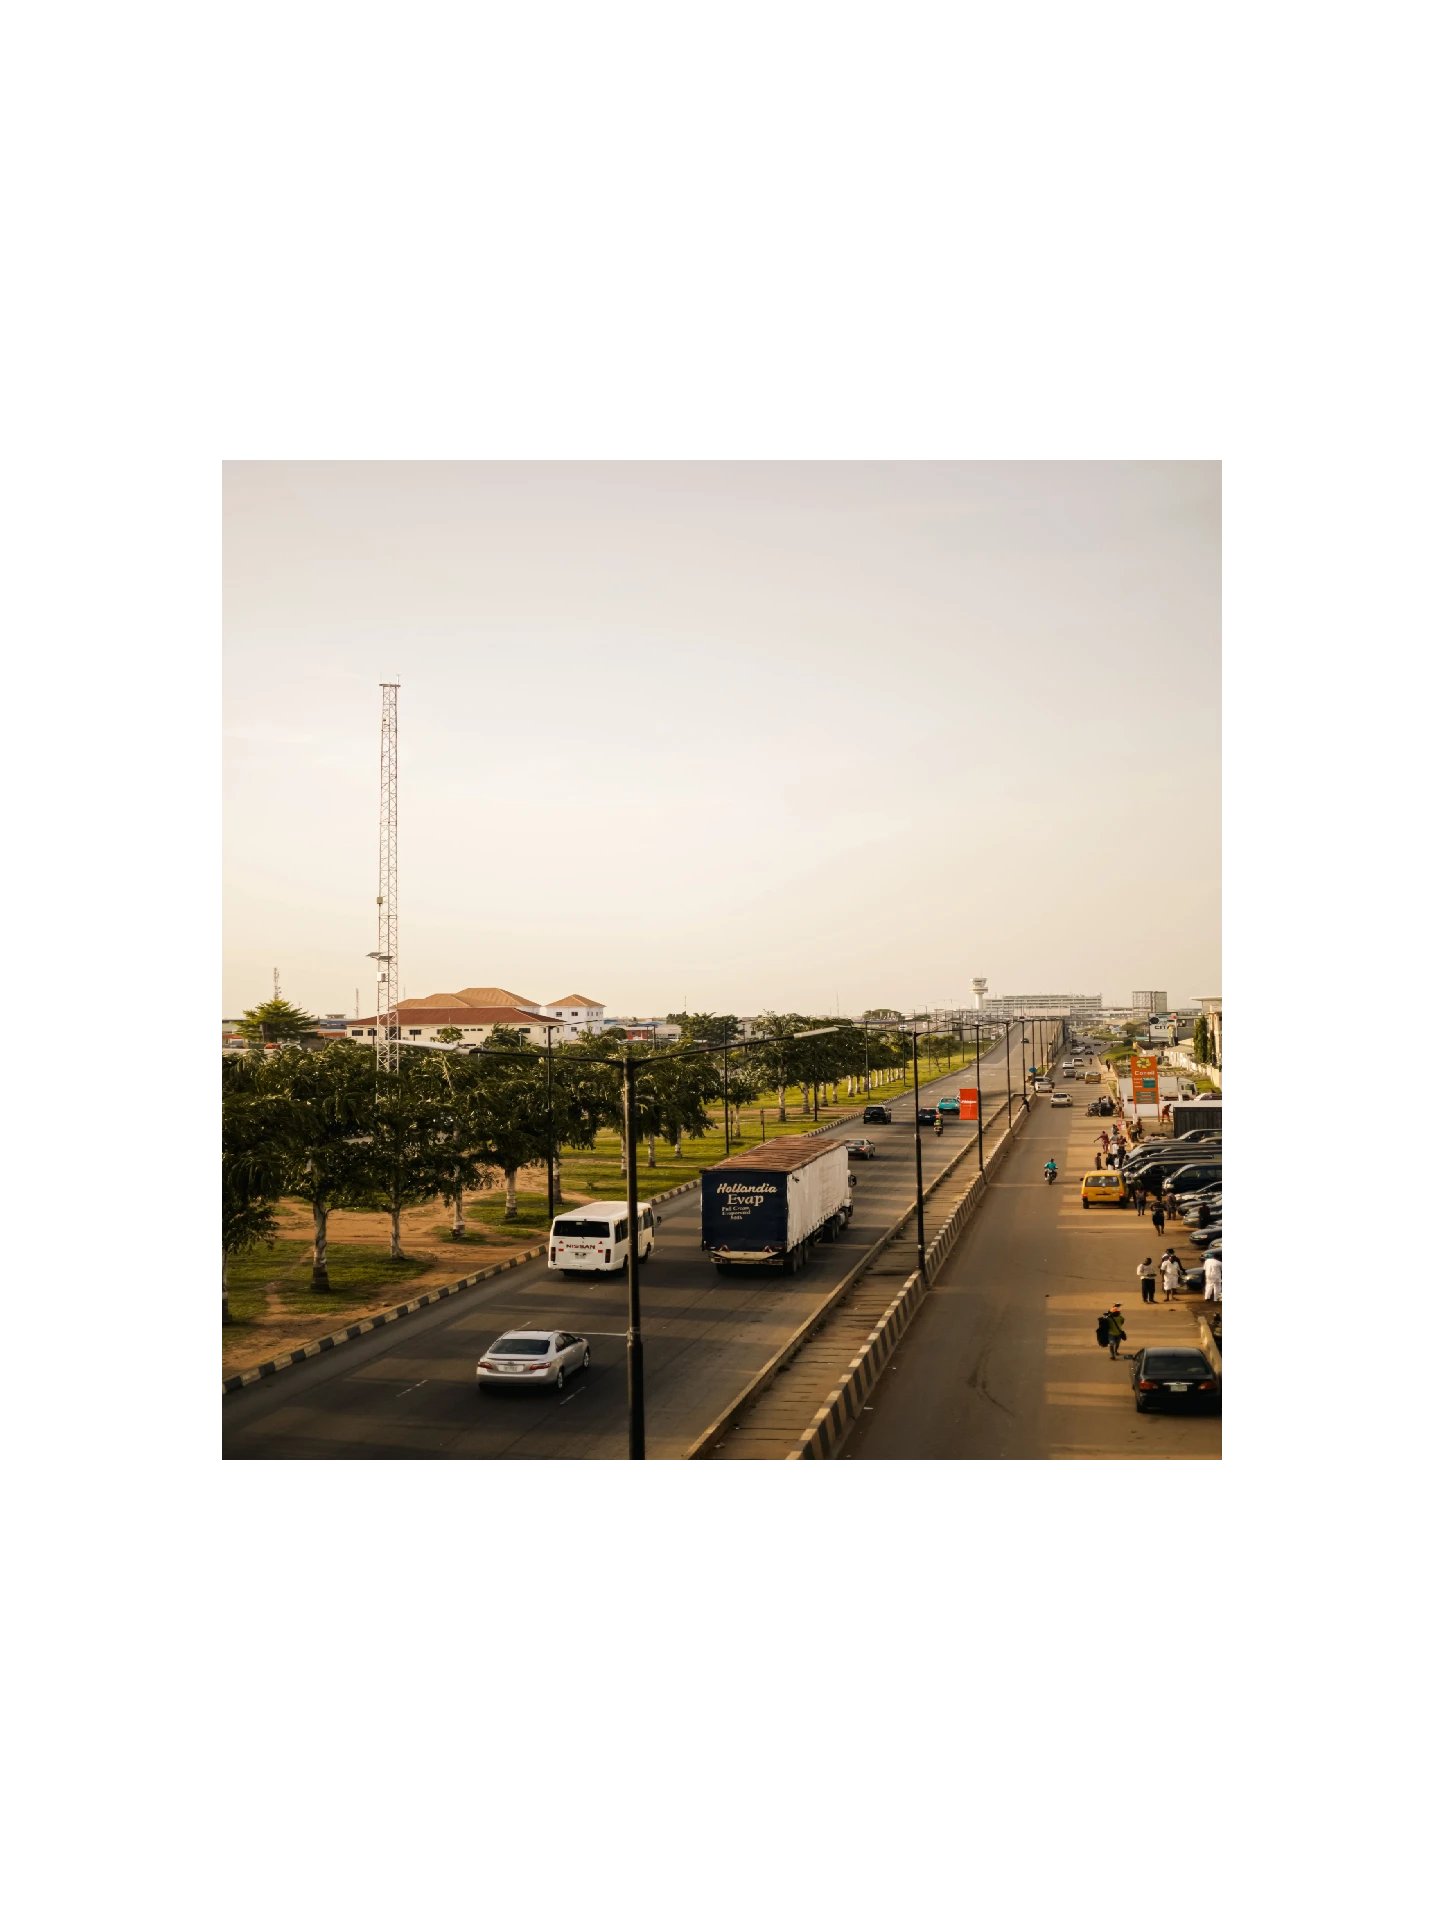
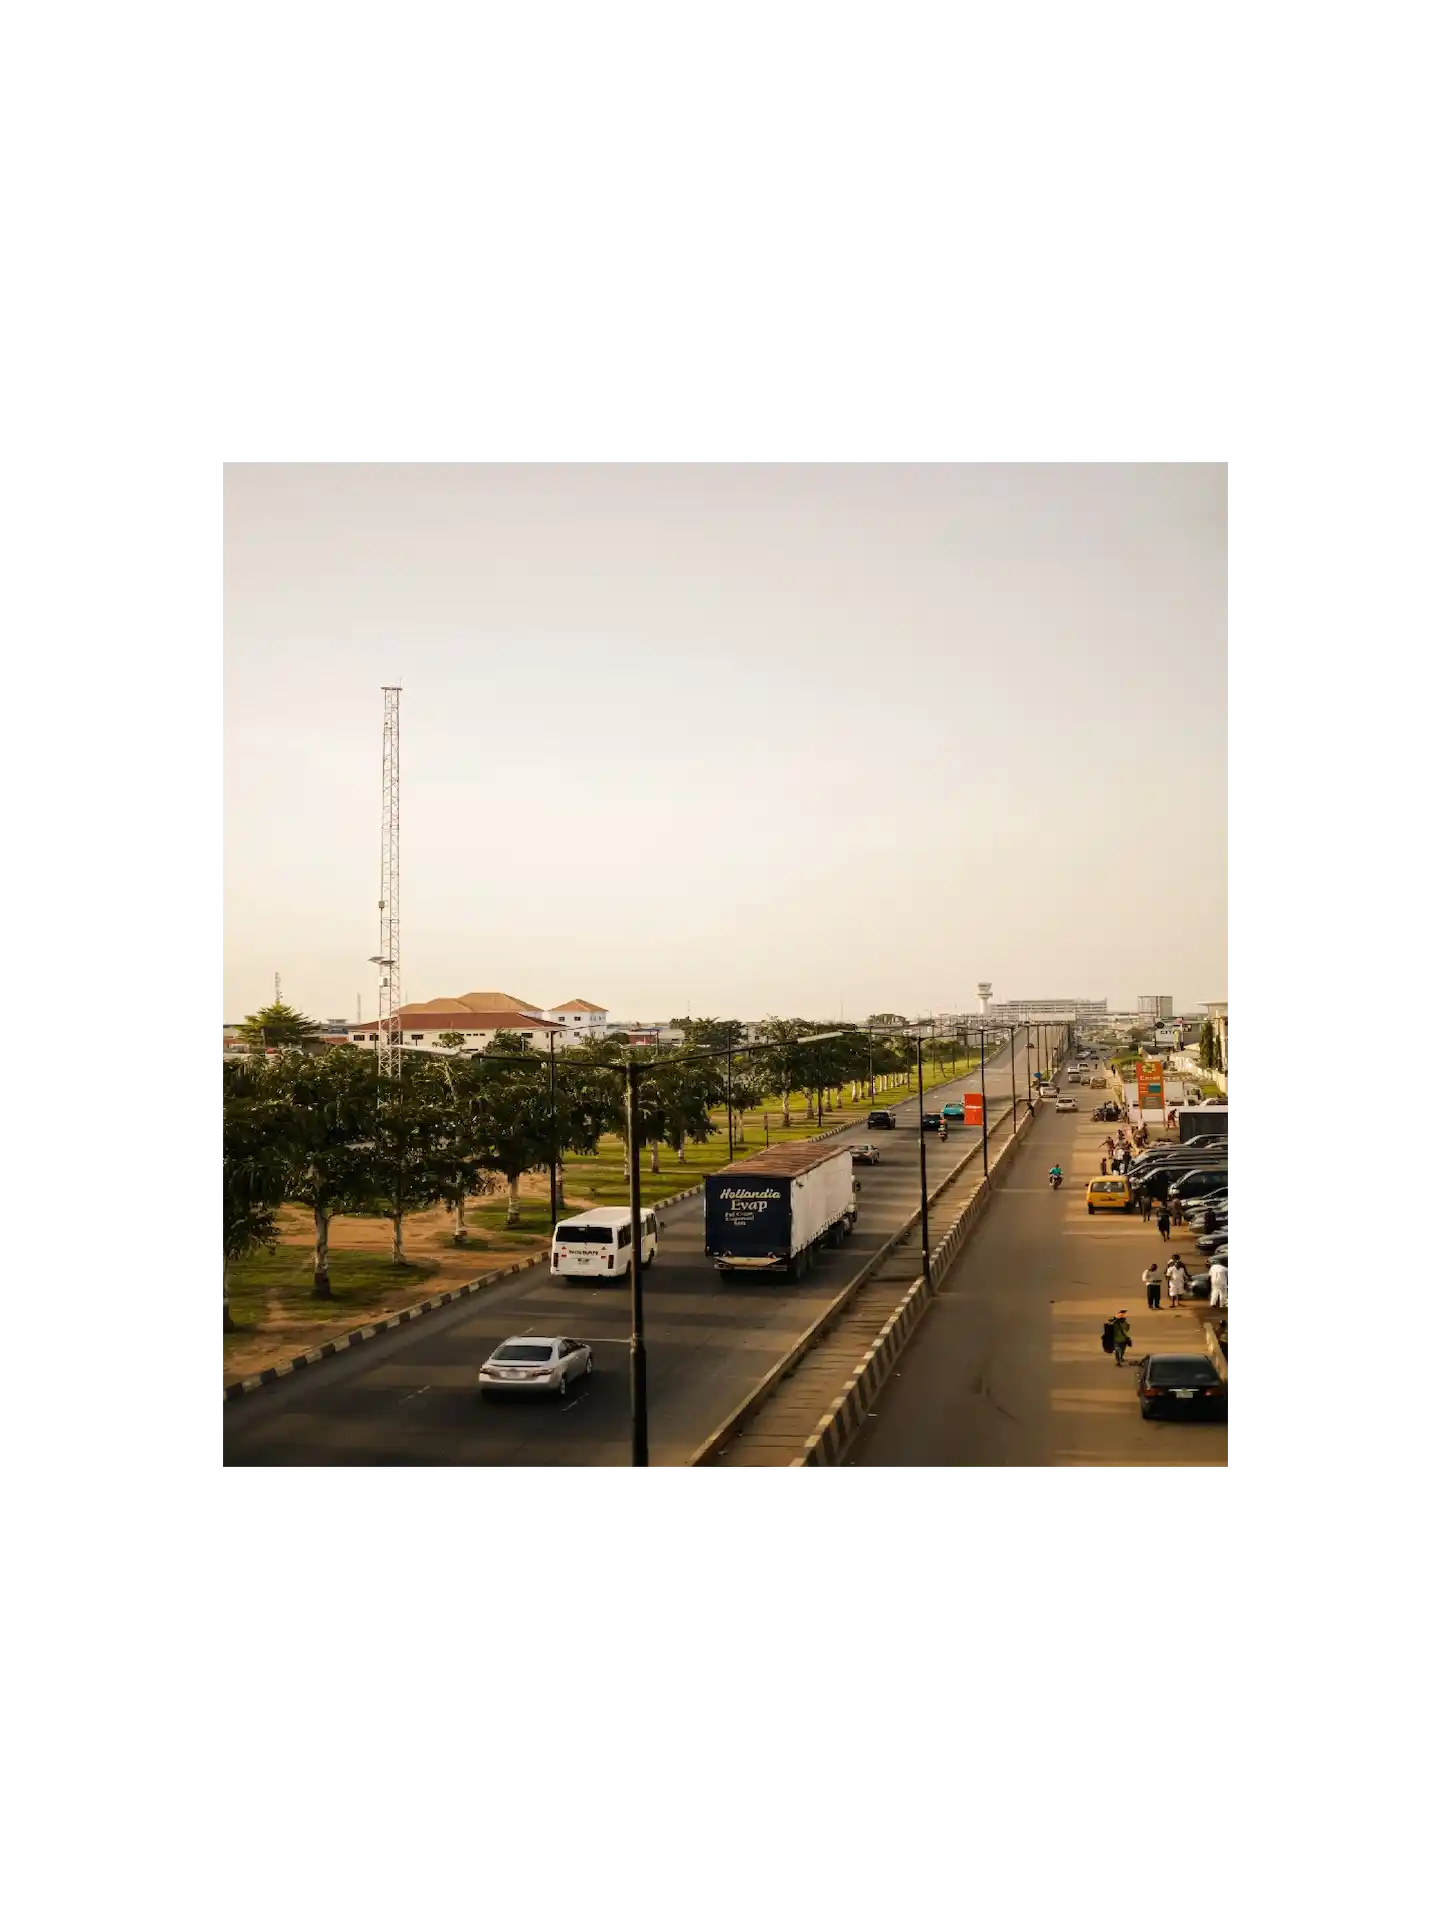
Made some changes again

Changed region(s): [[0.7484, 0.5312, 0.8108, 0.625], [0.6237, 0.5312, 0.6549, 0.5625], [0.499, 0.5938, 0.5301, 0.625]]

diff --git a/styles/place.css b/styles/place.css
@@ -1,3 +1,7 @@
+:root{
+    --primary-color: green;
+    --secondary-color: white;
+}
 *{
     box-sizing: border-box;
 }
@@ -7,8 +11,8 @@ body{
     color: black;
 }
 header{
-    background-color: green;
-    color: white;
+    background-color: var(--primary-color);
+    color: var(--secondary-color);
     text-align: center;
     padding: 1rem;
 }
@@ -22,8 +26,8 @@ header{
     text-align: center;
 }
 .data h2, .weather h2{
-    background-color: green;
-    color: white;
+    background-color: var(--primary-color);
+    color: var(--secondary-color);
     padding: 0.75rem;
 }
 .weather img{
@@ -33,8 +37,8 @@ header{
     display: block;
 }
 footer{
-    background-color: green;
-    color: white;
+    background-color: var(--primary-color);
+    color: var(--secondary-color);
     text-align: center;
     padding: 1rem;
 }

diff --git a/place.html b/place.html
@@ -4,7 +4,7 @@
     <meta charset="UTF-8">
     <meta name="viewport" content="width=device-width, initial-scale=1.0">
     <title>Nigeria | WDD131</title>
-    <meta name="author" content="Igbaji Divine" />
+    <meta name="author" content="Igbaji Divine">
     <meta name="description" content="Explore Nigeria including it's population, capital, language, currency, climate and other facts.">
     <link rel="stylesheet" href="styles/place.css">
     <link rel="stylesheet" href="styles/place-large.css">
